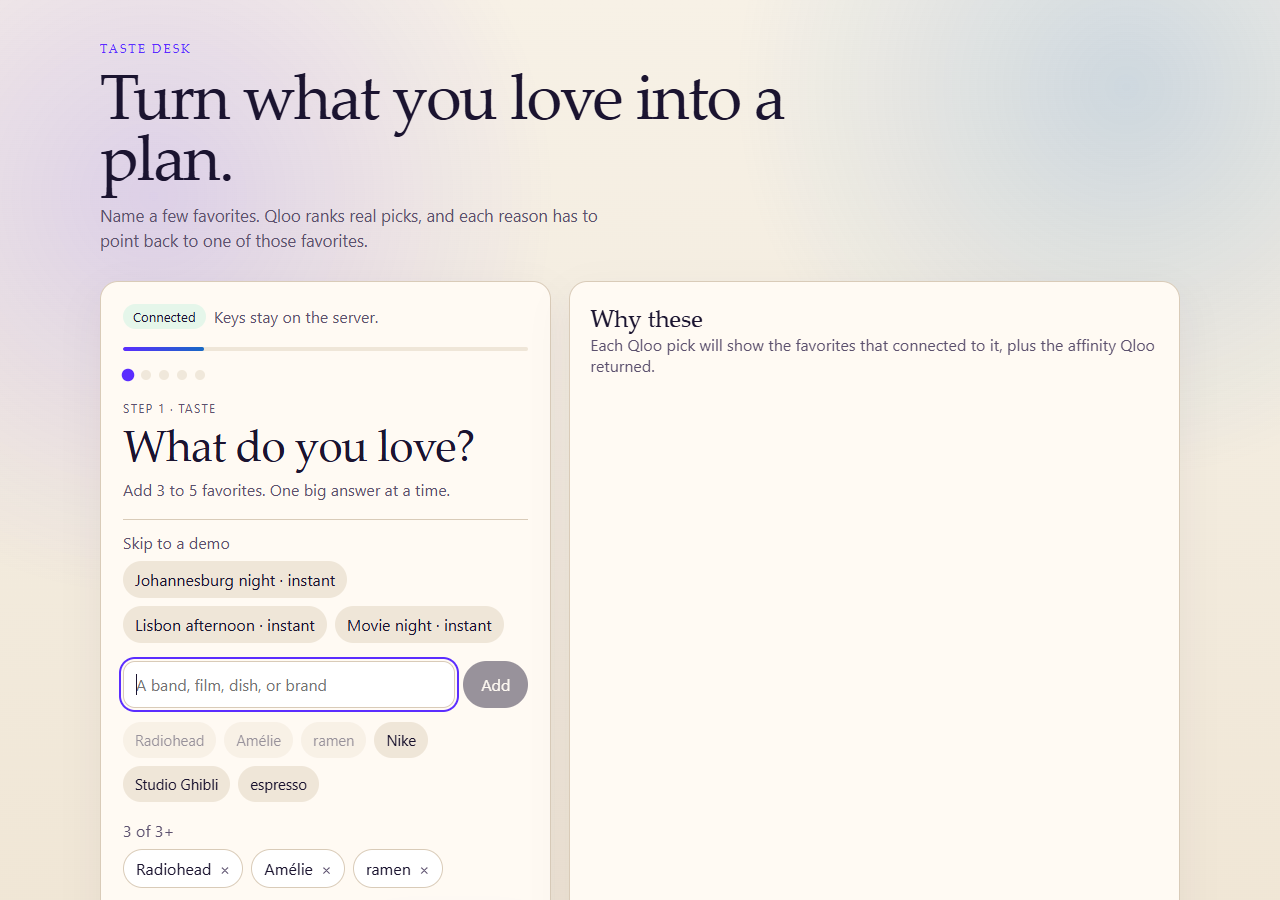
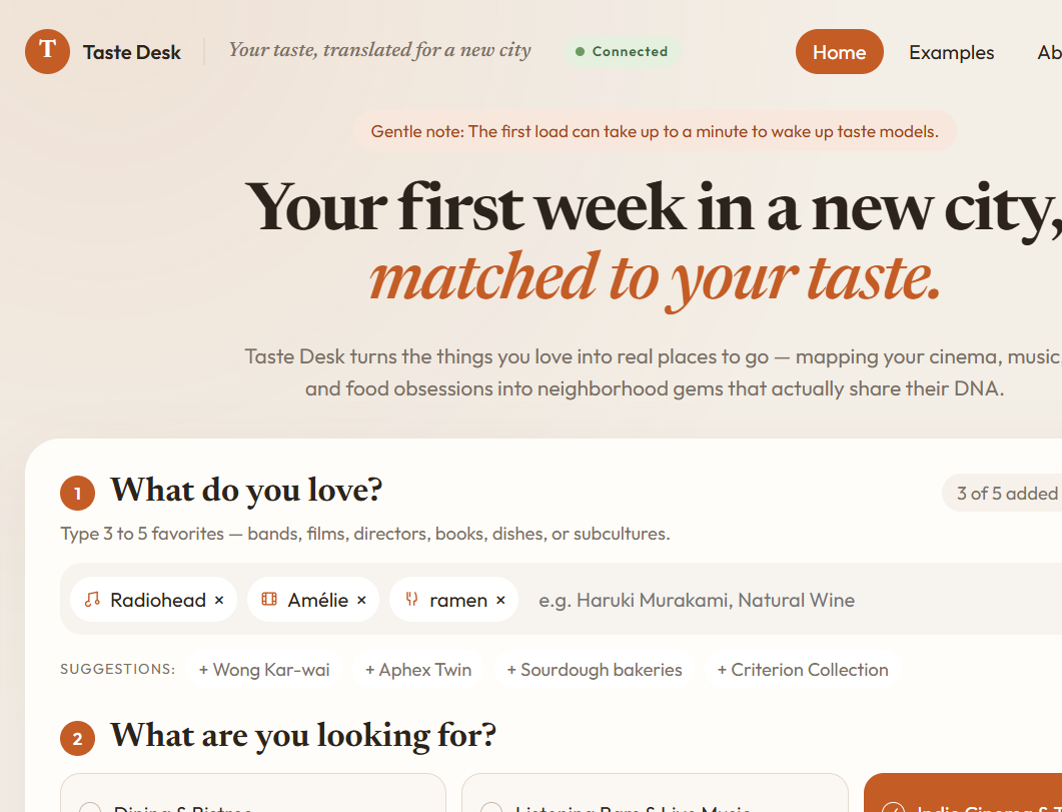
Show Radiohead's music genres and lead the demo with Lisbon.
The artist filter was dropping Alternative Rock and indie rock, and Johannesburg was listed first even though only one favorite maps there.

diff --git a/server/test/tasteMap.test.js b/server/test/tasteMap.test.js
@@ -86,17 +86,35 @@ test("overlaps stay labeled per favorite instead of blending scores", () => {
 });
 
 test("taste tags keep qloo and media keyword types and drop a short list", () => {
-  const amelie = selectTasteTags(fixture("entity_tags-amelie-movie.json").result.results);
-  const radiohead = selectTasteTags(fixture("entity_tags-radiohead-artist.json").result.results);
-  assert.equal(amelie.length, 6);
-  assert.ok(amelie.every((tag) => tag.type.endsWith(":qloo")));
-  assert.deepEqual(radiohead, []);
+  const amelie = selectTasteTags(fixture("entity_tags-amelie-l20.json").result.results);
+  const radiohead = selectTasteTags(fixture("entity_tags-radiohead-l20.json").result.results);
+  const shortRadiohead = selectTasteTags(fixture("entity_tags-radiohead-artist.json").result.results);
+  assert.deepEqual(amelie.map((tag) => tag.name), [
+    "Feminism", "Magic Realism", "Whimsical", "Optimistic", "Whimsy", "Visually Lush",
+  ]);
+  assert.deepEqual(radiohead.map((tag) => tag.name), [
+    "surrealism", "Cultivated", "Cerebral", "Alternative Rock", "indie rock", "Environmental Issues",
+  ]);
+  assert.ok(radiohead.some((tag) => tag.type === "urn:tag:genre:music"));
+  assert.equal(radiohead.some((tag) => tag.name === "indie" || tag.name.startsWith(" ")), false);
+  assert.deepEqual(shortRadiohead, []);
   assert.deepEqual(selectTasteTags([
     { name: "surrealism", type: "urn:tag:keyword:media" },
     { name: "Bar", type: "urn:tag:genre:place" },
     { name: "Experimental", type: "urn:tag:genre:qloo" },
     { name: "Melancholy", type: "urn:tag:keyword:qloo" },
   ]).map((tag) => tag.name), ["surrealism", "Experimental", "Melancholy"]);
+  assert.deepEqual(selectTasteTags([
+    { name: " Musician ", type: "urn:tag:genre:music" },
+    { name: "Entertainment", type: "urn:tag:genre:media" },
+    { name: " rock", type: "urn:tag:genre:music" },
+    { name: " indie", type: "urn:tag:genre:music" },
+    { name: "Alternative Rock", type: "urn:tag:genre:music" },
+    { name: " indie rock", type: "urn:tag:genre:music" },
+    { name: "Classics", type: "urn:tag:genre:media" },
+    { name: "Whimsical", type: "urn:tag:subgenre:qloo" },
+    { name: "Whimsy", type: "urn:tag:keyword:qloo" },
+  ]).map((tag) => tag.name), ["Alternative Rock", "indie rock", "Classics", "Whimsical", "Whimsy"]);
 });
 
 test("a plan uses the city name and the sample response shape", async () => {
@@ -117,7 +135,7 @@ test("a plan uses the city name and the sample response shape", async () => {
         return { status: 200, body: fixture("where_popular-amelie-lisbon.json") };
       }
       if (operation === "entity_tags" && input.entities?.[0] === "artist-1") {
-        return { status: 200, body: fixture("entity_tags-radiohead-artist.json") };
+        return { status: 200, body: fixture("entity_tags-radiohead-l20.json") };
       }
       if (operation === "entity_tags" && input.entities?.[0] === "movie-1") {
         return { status: 200, body: fixture("entity_tags-amelie-movie.json") };
@@ -150,16 +168,17 @@ test("a plan uses the city name and the sample response shape", async () => {
   assert.deepEqual(tags.map((call) => call.input.limit), [20, 20]);
   assert.deepEqual(response.body.taste_map.favorites.map((favorite) => favorite.name), ["Radiohead", "Amélie"]);
   assert.equal(response.body.taste_map.favorites[0].clusters.length <= 2, true);
-  assert.equal(response.body.taste_tags.favorites.length, 1);
-  assert.equal(response.body.taste_tags.favorites[0].name, "Amélie");
+  assert.deepEqual(response.body.taste_tags.favorites.map((favorite) => favorite.name), ["Radiohead", "Amélie"]);
   assert.equal(response.body.taste_tags.favorites[0].tags.length, 6);
+  assert.ok(response.body.taste_tags.favorites[0].tags.some((tag) => tag.name === "Alternative Rock"));
+  assert.equal(response.body.taste_tags.favorites[1].tags.length, 6);
   assert.match(response.body.taste_map.summary, /fans/);
   assert.equal(/\d+\.\d+°/.test(response.body.taste_map.summary), false);
   assert.ok(response.body.trace.includes("Called where_popular for Radiohead within Lisbon"));
   assert.ok(response.body.trace.includes("Called where_popular for Amélie within Lisbon"));
   assert.ok(response.body.trace.includes("Skipped ramen for the taste map"));
+  assert.ok(response.body.trace.includes("Kept taste tags for Radiohead"));
   assert.ok(response.body.trace.includes("Kept taste tags for Amélie"));
-  assert.ok(response.body.trace.includes("Skipped Radiohead taste tags"));
 });
 
 test("a saved preset returns its city map and tags without calling Qloo", async () => {

diff --git a/server/src/tasteTags.js b/server/src/tasteTags.js
@@ -1,18 +1,52 @@
 const TAG_LIMIT = 20;
 const TAG_KEEP = 6;
 const TAG_MIN = 3;
+const BLOCKED_NAMES = new Set(["musician", "entertainment"]);
+const GENRE_TYPES = new Set(["urn:tag:genre:music", "urn:tag:genre:media"]);
 
 export function isTasteTag(type) {
   const value = String(type || "");
-  return value === "urn:tag:keyword:media" || value.endsWith(":qloo");
+  return value === "urn:tag:keyword:media" || value.endsWith(":qloo") || GENRE_TYPES.has(value);
+}
+
+function cleanName(name) {
+  return String(name || "").trim().replace(/\s+/g, " ");
+}
+
+function wordsOf(name) {
+  return cleanName(name).toLowerCase().split(" ").filter(Boolean);
+}
+
+function isWordSubset(shorter, longer) {
+  if (shorter.length === 0 || shorter.length >= longer.length) return false;
+  const pool = new Set(longer);
+  return shorter.every((word) => pool.has(word));
 }
 
 export function selectTasteTags(results) {
-  const kept = (Array.isArray(results) ? results : [])
+  const candidates = (Array.isArray(results) ? results : [])
     .filter((tag) => tag?.name && isTasteTag(tag.type))
-    .slice(0, TAG_KEEP)
-    .map((tag) => ({ name: String(tag.name).trim(), type: String(tag.type) }))
-    .filter((tag) => tag.name);
+    .map((tag) => ({ name: cleanName(tag.name), type: String(tag.type) }))
+    .filter((tag) => tag.name && !BLOCKED_NAMES.has(tag.name.toLowerCase()));
+
+  const deduped = [];
+  for (const tag of candidates) {
+    const tagWords = wordsOf(tag.name);
+    const matchIndex = deduped.findIndex((kept) => {
+      const keptWords = wordsOf(kept.name);
+      if (keptWords.join(" ") === tagWords.join(" ")) return true;
+      return isWordSubset(keptWords, tagWords) || isWordSubset(tagWords, keptWords);
+    });
+    if (matchIndex === -1) {
+      deduped.push(tag);
+      continue;
+    }
+    if (tagWords.length > wordsOf(deduped[matchIndex].name).length) {
+      deduped[matchIndex] = tag;
+    }
+  }
+
+  const kept = deduped.slice(0, TAG_KEEP);
   return kept.length >= TAG_MIN ? kept : [];
 }
 

diff --git a/client/src/HomeDesk.jsx b/client/src/HomeDesk.jsx
@@ -14,16 +14,16 @@ const LANES = [
 
 const PATHS = [
   {
-    id: "johannesburg",
-    title: "Johannesburg night out",
-    copy: "A night built from Radiohead, Amélie, and ramen.",
-    cityQuery: "Johannesburg",
-  },
-  {
     id: "lisbon",
     title: "Lisbon afternoon",
     copy: "The same favorites, walked through Lisbon.",
     scene: "Lisbon tiled street cafe",
+  },
+  {
+    id: "johannesburg",
+    title: "Johannesburg night out",
+    copy: "A night built from Radiohead, Amélie, and ramen.",
+    cityQuery: "Johannesburg",
   },
   {
     id: "movies",
@@ -241,7 +241,7 @@ export function HomeDesk({
               <path d="M12 21s7-6.2 7-11a7 7 0 1 0-14 0c0 4.8 7 11 7 11z" />
               <circle cx="12" cy="10" r="2.2" />
             </svg>
-            <input aria-label="City" value={city} onChange={(event) => setCity(event.target.value)} placeholder="Johannesburg, South Africa" />
+            <input aria-label="City" value={city} onChange={(event) => setCity(event.target.value)} placeholder="Lisbon, Portugal" />
           </label>
           <div className="hub-line">
             <span>Frequent hubs:</span>

diff --git a/server/src/presets.js b/server/src/presets.js
@@ -6,20 +6,20 @@ const presetDir = path.join(path.dirname(fileURLToPath(import.meta.url)), "../pr
 
 export const PRESETS = [
   {
-    id: "johannesburg",
-    label: "Johannesburg night",
-    blurb: "Radiohead, Amélie, and ramen, as places.",
-    favorites: ["Radiohead", "Amélie", "ramen"],
-    target: "place",
-    city: "Johannesburg",
-  },
-  {
     id: "lisbon",
     label: "Lisbon afternoon",
     blurb: "The same favorites, in Lisbon.",
     favorites: ["Radiohead", "Amélie", "ramen"],
     target: "place",
     city: "Lisbon",
+  },
+  {
+    id: "johannesburg",
+    label: "Johannesburg night",
+    blurb: "Radiohead, Amélie, and ramen, as places.",
+    favorites: ["Radiohead", "Amélie", "ramen"],
+    target: "place",
+    city: "Johannesburg",
   },
   {
     id: "movies",

diff --git a/README.md b/README.md
@@ -4,9 +4,9 @@ Live demo: [https://qloo-taste-desk.onrender.com](https://qloo-taste-desk.onrend
 
 ![The interview, ready to plan](docs/screenshots/form.png)
 
-![A Qloo plan with the agent trace](docs/screenshots/trace.png)
+![Lisbon taste map, the São José overlap, and taste tags](docs/screenshots/compare.png)
 
-![The same favorites, side by side](docs/screenshots/compare.png)
+![The Lisbon plan and how the agent decided](docs/screenshots/trace.png)
 
 A small hackathon app that turns a few favorites into a Qloo-backed plan. The browser never sees the Qloo or Gemini credentials. An Express server reads them from its environment, runs `qloo exec`, and asks a Gemini Flash model only to explain items Qloo returned. Workflow calls follow the non-interactive contract in `@qloo/qloo-harness` 0.1.26.
 
@@ -36,7 +36,7 @@ npm run dev
 
 The API listens on `http://127.0.0.1:8787` when you open it from this machine. The page is at `http://localhost:5173` and proxies `/api` to that server. The status pill says Connected when the Qloo key is set.
 
-`POST /api/plan` accepts 3 to 5 favorites, a target (`place`, `movie`, `brand`, `artist`, or `book`), and an optional city. It resolves each favorite with `describe`, calls `recommend`, then asks Gemini for a JSON itinerary. Any item the model names that Qloo did not return is dropped. Place results that look like organizations are dropped when enough visitable venues remain. `/api/exec` and `/api/plan` share a limit of 20 requests per minute per IP. Identical successful Qloo calls stay cached for one hour.
+`POST /api/plan` accepts 3 to 5 favorites, a target (`place`, `movie`, `brand`, `artist`, or `book`), and an optional city. It resolves each favorite with `describe`, uses `find_tags` when a favorite is a taste rather than an entity, calls `recommend`, then asks Gemini for a JSON itinerary. Place plans also call `where_popular` for a city heatmap and `entity_tags` for a short taste label on each resolved favorite. Any item the model names that Qloo did not return is dropped. Place results that look like organizations are dropped when enough visitable venues remain. `/api/exec` and `/api/plan` share a limit of 20 requests per minute per IP. Identical successful Qloo calls stay cached for one hour.
 
 `mode` may be `qloo` (default) or `plain`. Plain asks Gemini with no Qloo catalog, so the page can show both answers for the same favorites. Three saved demos are listed by `GET /api/presets`. When a matching snapshot exists in `server/presets/`, that plan returns immediately and does not spend quota.
 
@@ -70,7 +70,7 @@ Regenerates `server/presets/*.json` from a live plan. The script refuses to writ
 
 ## What is Qloo-powered
 
-Resolution, recommendations, affinity, and popularity come from Qloo. The model may only explain items in that result set, and the server drops anything else. Each successful plan includes an agent trace: which entity or tag was chosen, that recommend ran, and any non-venues or invented names that were removed. The plain-LLM column is the control: same favorites, no catalog, no guarantee the places exist.
+Resolution (`describe`, `find_tags`), recommendations, affinity, city heatmaps (`where_popular`), and taste tags (`entity_tags`) come from Qloo. The model may only explain items in that result set, and the server drops anything else. Each successful plan includes an agent trace: which entity or tag was chosen, that recommend ran, and any non-venues or invented names that were removed. The plain-LLM column is the control: same favorites, no catalog, no guarantee the places exist.
 
 ## Limits
 
@@ -82,7 +82,7 @@ The browser talks only to this API. Express spawns `qloo exec` with `shell: fals
 
 ## Project description
 
-A plain model, given the same favorites, names venues Qloo never returned. Taste Desk turns three to five favorites into a plan in another domain, and it would not work the same without Qloo. Qloo resolves the favorites, recommends real entities, and returns affinity. The page shows that path as an agent trace. A server-side model writes the reason for each pick and must cite the favorites that connected to it. Names the model invents are removed. A side-by-side control shows the unchecked plain answer. Credentials never reach the browser.
+The Lisbon afternoon is the lead demo. Radiohead and Amélie both have heatmaps there, the map says their fans overlap at São José, and the taste tags sit beside the plan: Alternative Rock and indie rock for Radiohead, Whimsical and Magic Realism for Amélie. A plain model, given the same favorites, names venues Qloo never returned. Taste Desk turns three to five favorites into a plan in another domain, and it would not work the same without Qloo. Qloo resolves the favorites with `describe` and `find_tags`, recommends real entities, draws `where_popular` heatmaps, and reads `entity_tags`. The page shows that path as an agent trace. A server-side model writes the reason for each pick and must cite the favorites that connected to it. Names the model invents are removed. A side-by-side control shows the unchecked plain answer. Credentials never reach the browser.
 
 ## License
 
